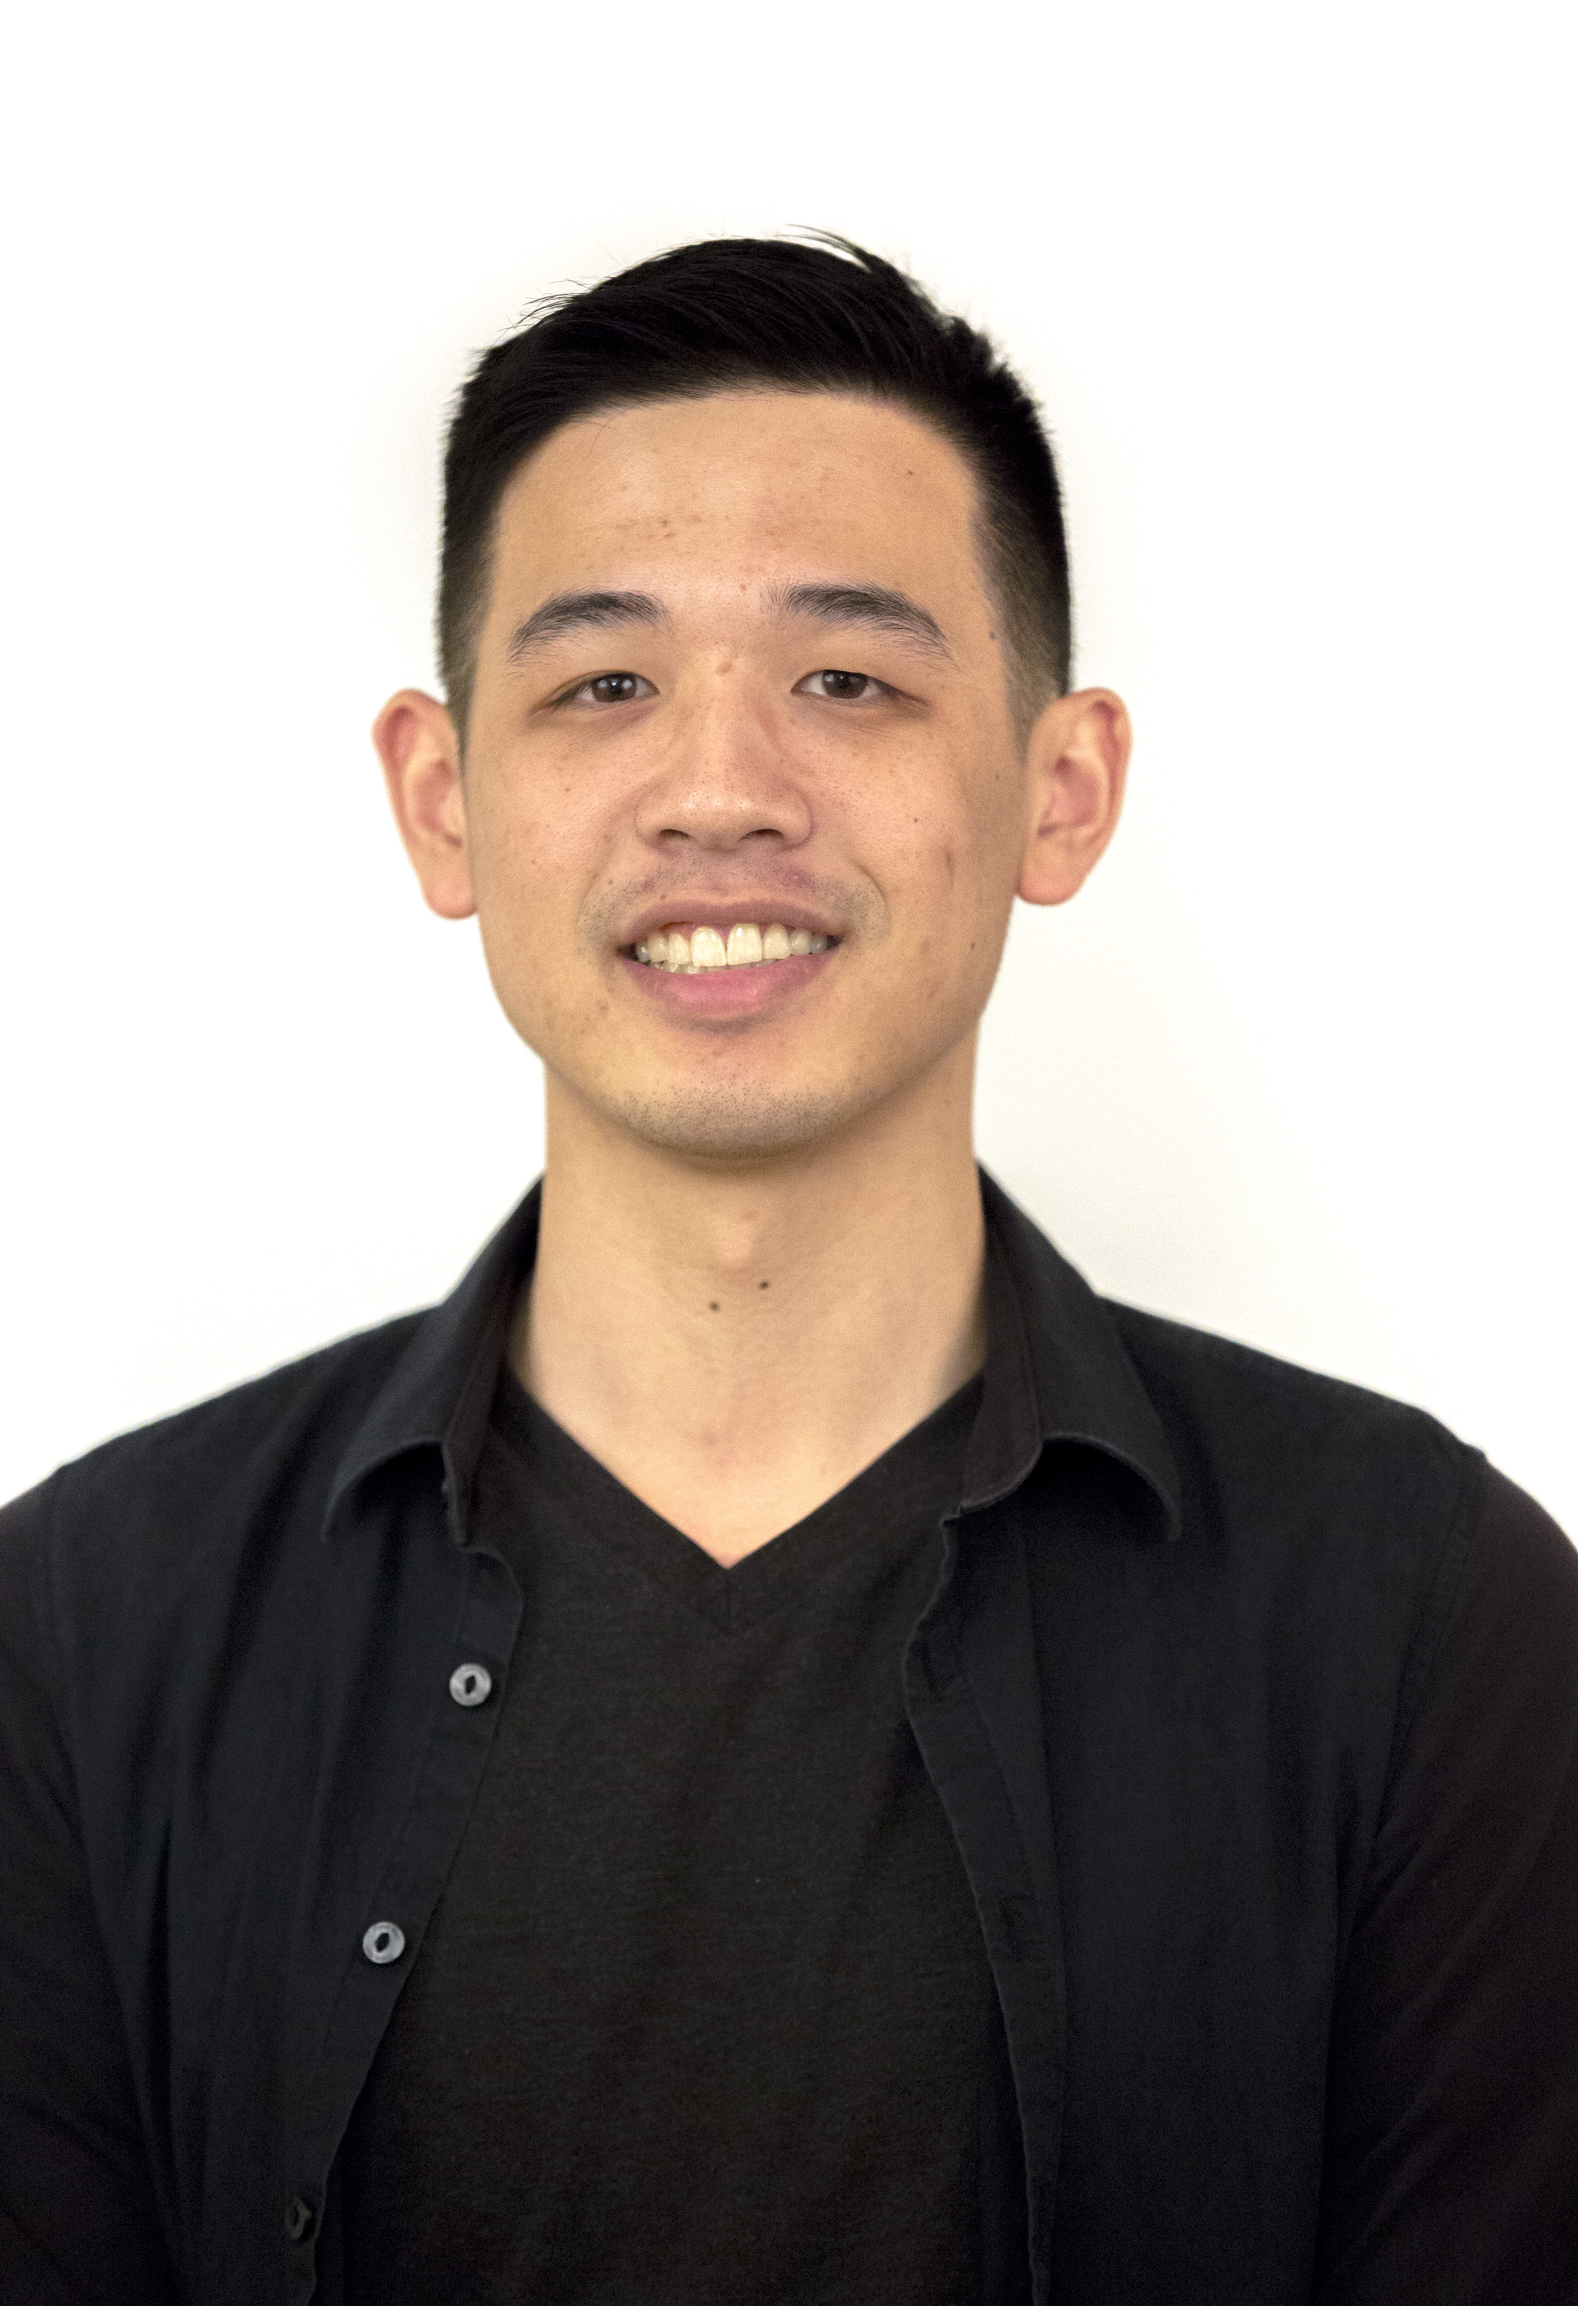
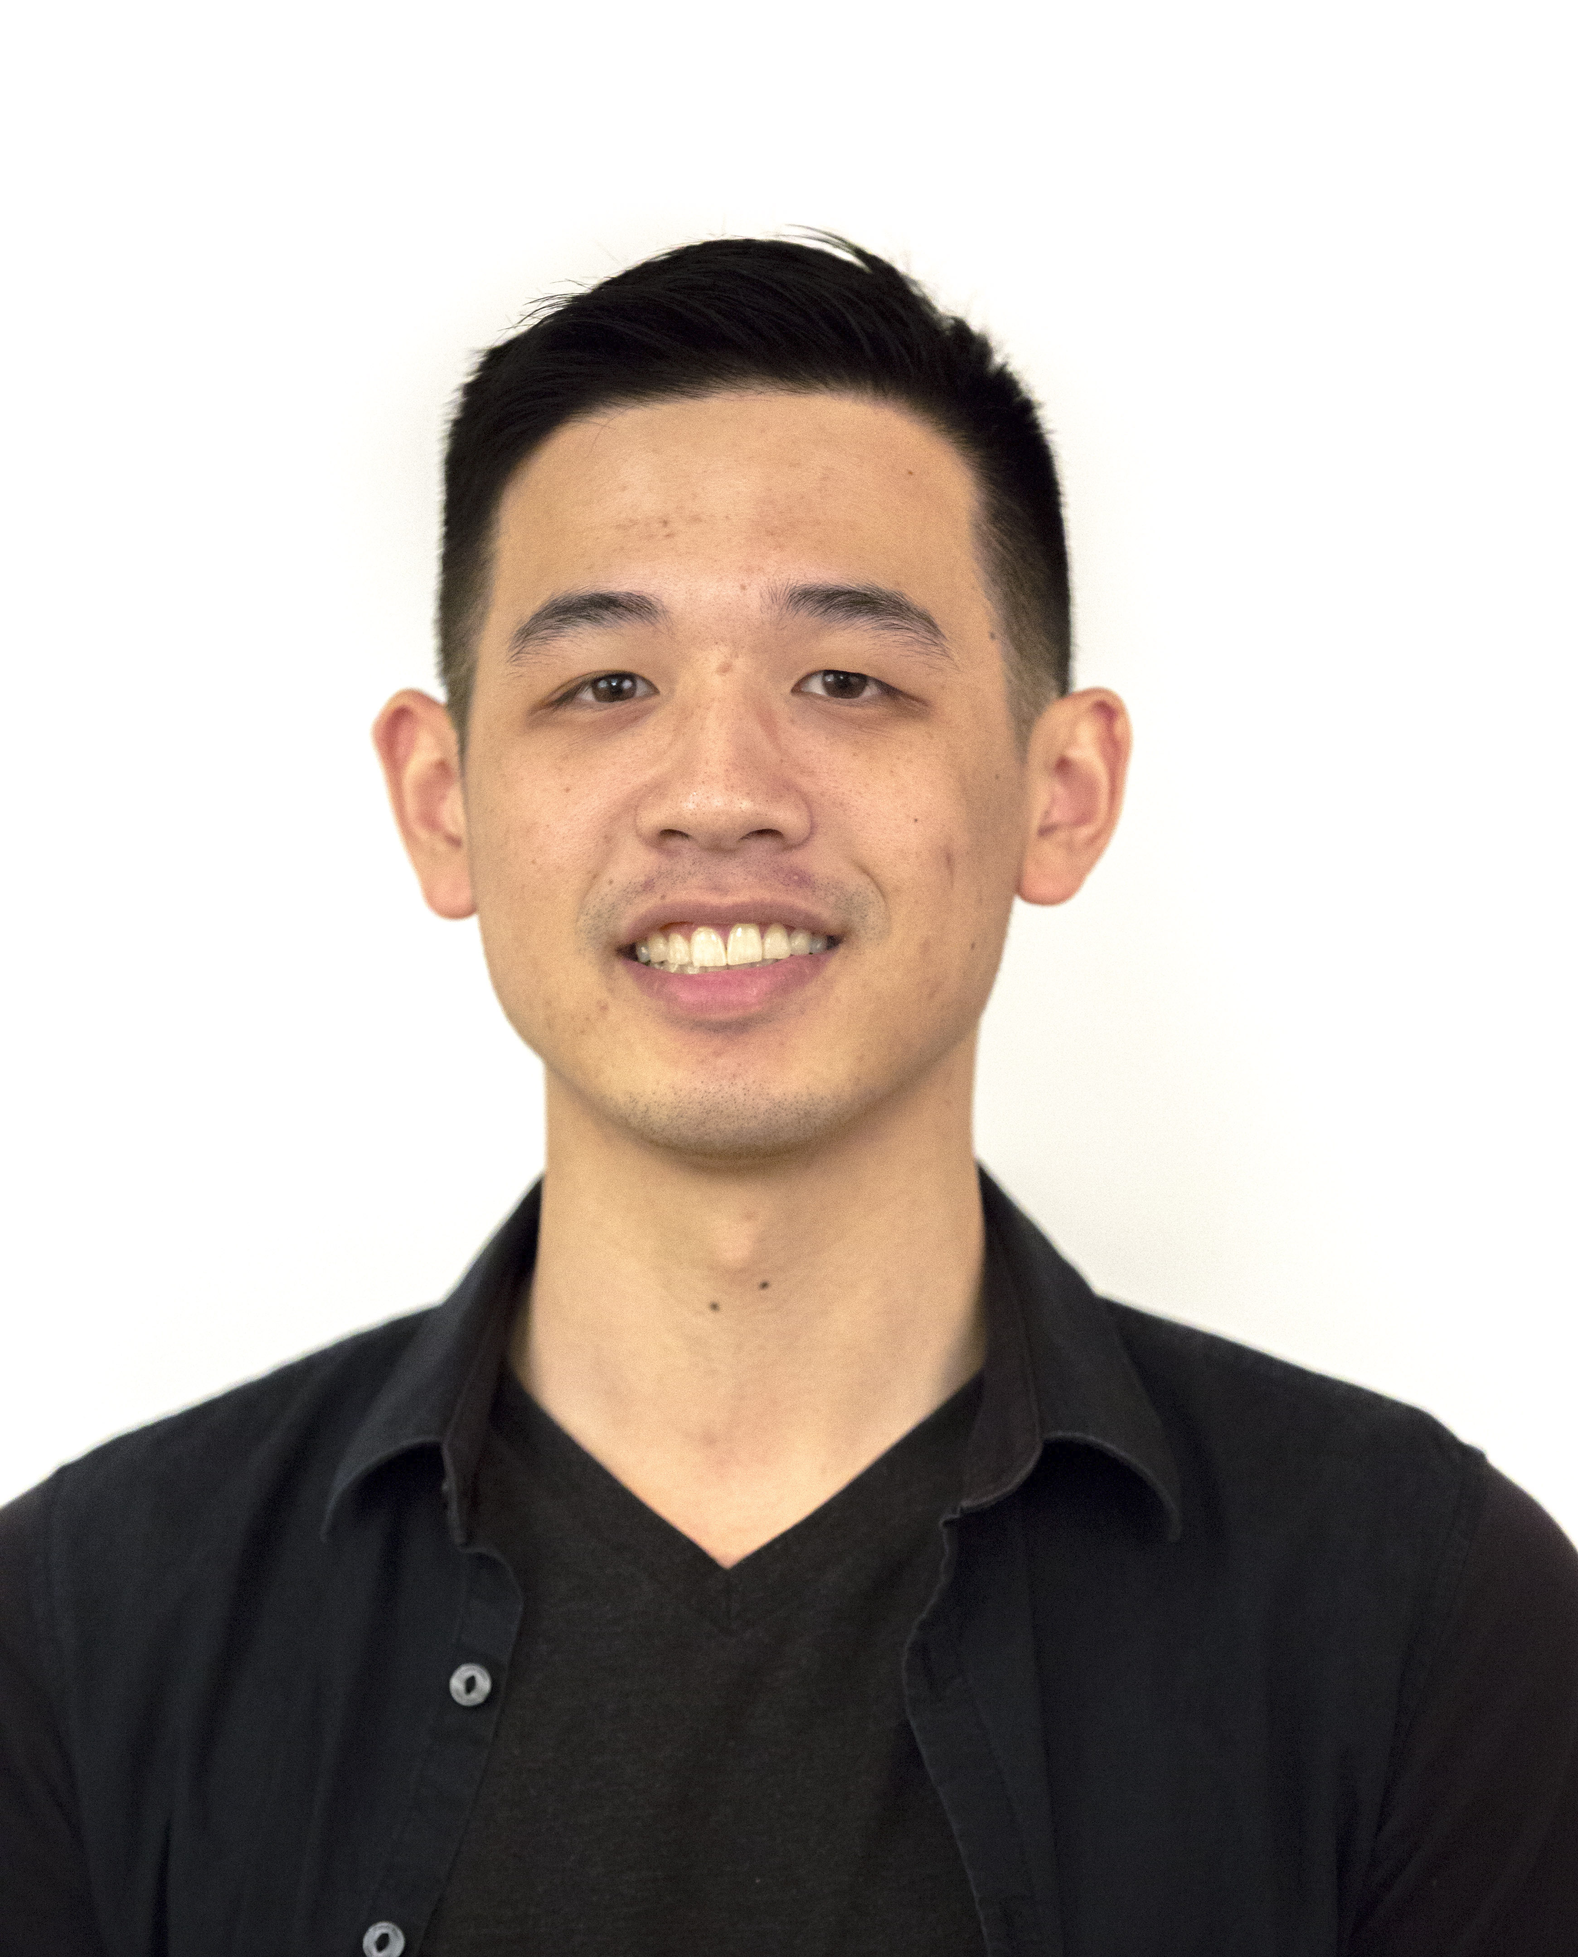
Update photos

diff --git a/about.html b/about.html
@@ -62,7 +62,7 @@
           <div class="row">
             <div class="col-md-12">
               <div class="colorlib-navbar-brand">
-                <a class="colorlib-logo" href="index.html"><span class="logo-img" style="background-image: url(images/person_1.jpg);"></span>Elson Li</a>
+                <a class="colorlib-logo" href="index.html"><span class="logo-img" style="background-image: url(images/author-1.jpg);"></span>Elson Li</a>
               </div>
               <a href="#" class="js-colorlib-nav-toggle colorlib-nav-toggle"><i></i></a>
             </div>
@@ -73,14 +73,15 @@
       <section class="ftco-section about-section">
         <div class="container">
           <div class="row d-flex my-5" data-scrollax-parent="true">
-            <div class="col-md-4 author-img" style="background-image: url(images/author-1.jpg);" data-scrollax=" properties: { translateY: '-70%'}"></div>
+            <div class="col-md-4 author-img" style="background-image: url(images/person_1.jpg);" data-scrollax=" properties: { translateY: '-70%'}"></div>
             <div class="col-md-2"></div>
             <div class="col-md-6 wrap ftco-animate">
               <div class="about-desc">
                 <h1 class="bold-text">About</h1>
                 <div class="p-5">
                   <h2 class="mb-5">Hi! I'm Elson Li</h2>
-                  <p>Far far away, behind the word mountains, far from the countries Vokalia and Consonantia, there live the blind texts. Separated they live in.</p>
+                  <p>I am a software engineer with a passion for Ruby on Rails, React, and Redux. With a creative side to me that I have
+                  always enjoyed exploring, I'm happy that I am able to do that with software development.</p>
                   <p><a href="#">Checkout my resume</a></p>
                   <ul class="ftco-footer-social list-unstyled mt-4">
                     <li><a href="https://github.com/elsonli"><span class="icon-github"></span></a></li>

diff --git a/index.html b/index.html
@@ -107,7 +107,8 @@
                 <h1 class="bold-text">About</h1>
                 <div class="p-5">
                   <h2 class="mb-5">Hi! I'm Elson Li</h2>
-                  <p>Far far away, behind the word mountains, far from the countries Vokalia and Consonantia, there live the blind texts. Separated they live in.</p>
+                  <p>I am a software engineer with a passion for Ruby on Rails, React, and Redux. With a creative side to me that I have
+                  always enjoyed exploring, I'm happy that I am able to do that with software development.</p>
                   <p><a href="#">Checkout my resume</a></p>
                   <ul class="ftco-footer-social list-unstyled mt-4">
                     <li><a href="https://github.com/elsonli"><span class="icon-github"></span></a></li>

diff --git a/css/style.css b/css/style.css
@@ -7881,7 +7881,7 @@ header {
 @media (max-width: 767.98px) {
   .about-section .author-img {
     display: block;
-    height: 300px; } }
+    height: 400px; } }
 
 .wrap {
   padding: 0; }

diff --git a/scss/style.scss b/scss/style.scss
@@ -719,7 +719,7 @@ header{
 	.author-img{
 		@include media-breakpoint-down(sm){
 			display: block;
-			height: 300px;
+			height: 400px;
 		}
 	}
 }
